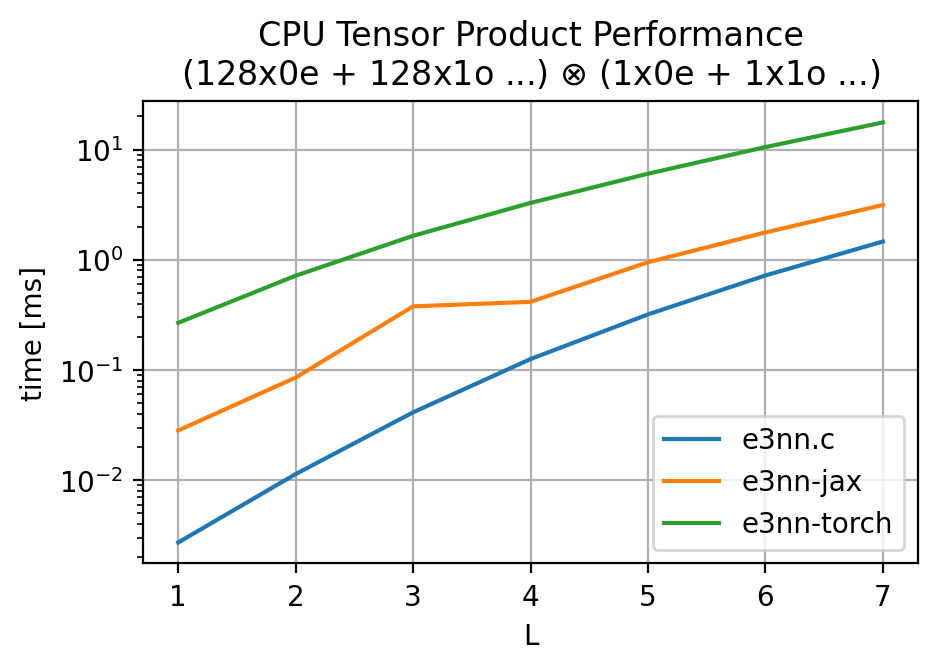
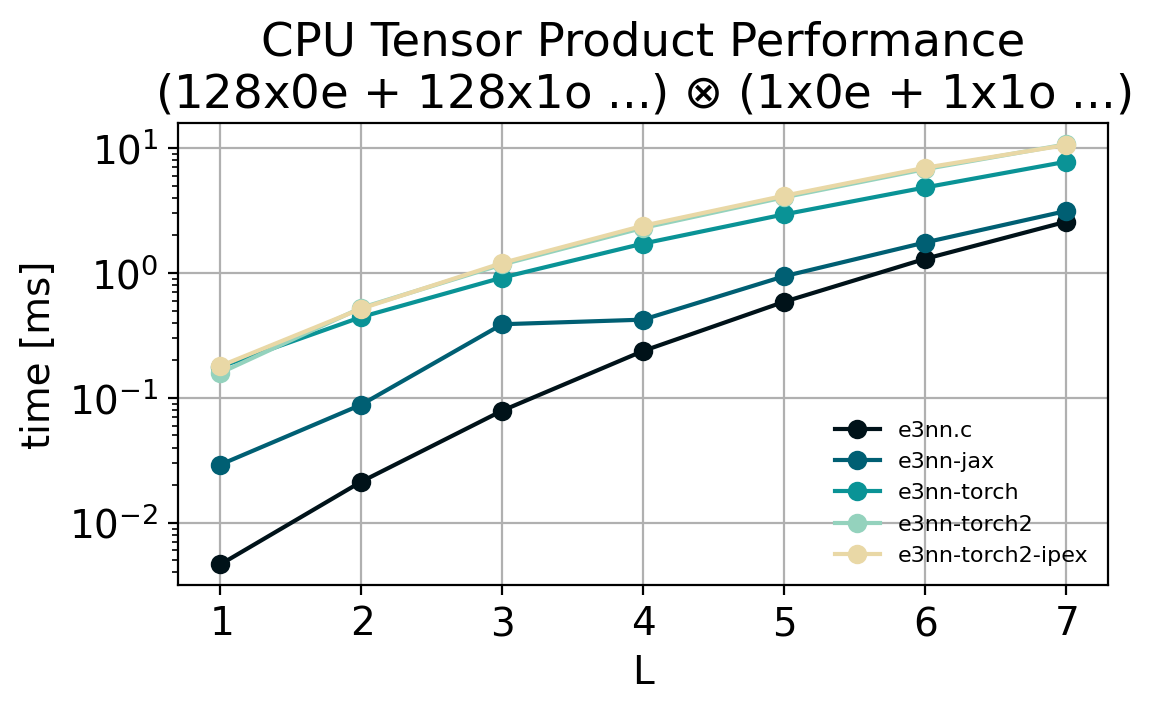
add requirements, add ipex, run benchmarkss/plot

Changed region(s): [[0.0, 0.0299, 0.9893, 0.8955], [0.5256, 0.9254, 0.5874, 0.9851]]

diff --git a/extra/benchmark_python.py b/extra/benchmark_python.py
@@ -5,6 +5,7 @@ import e3nn_jax
 
 import torch
 import e3nn as e3nn_torch
+import intel_extension_for_pytorch as ipex
 
 channels = 128
 warmup = 10
@@ -71,6 +72,30 @@ def main():
             input2 = irreps2.randn(-1) * 0
             tp = e3nn_torch.o3.experimental.FullTensorProductv2(irreps1, irreps2)
             tp = torch.compile(tp, fullgraph=True)
+
+            # perform once to jit
+            for _ in range(warmup):
+                output = tp(input1, input2)
+
+            start = time.process_time()
+            for _ in range(trials):
+                output = tp(input1, input2)
+
+            print(f"{lmax},", time.process_time() - start)
+ 
+    print("e3nn-torch2-ipex")
+    torch.set_num_threads(1) # note this actually makes it faster
+    with torch.no_grad():
+        for lmax in range(1, L):
+            irreps1 = e3nn_torch.o3.Irreps.spherical_harmonics(lmax)
+            irreps2 = (channels * irreps1).sort().irreps.simplify()
+
+            input1 = irreps1.randn(-1) * 0
+            input2 = irreps2.randn(-1) * 0
+            tp = e3nn_torch.o3.experimental.FullTensorProductv2(irreps1, irreps2)
+            tp.eval()
+            tp = ipex.optimize(tp, weights_prepack=False)
+            tp = torch.compile(tp, backend='ipex')
 
             # perform once to jit
             for _ in range(warmup):

diff --git a/extra/plot_benchmark.py b/extra/plot_benchmark.py
@@ -19,7 +19,7 @@ for line in lines:
         data[name]["lmax"].append(int(lmax)) 
         data[name]["time"].append(float(time) / trials * 1000) 
 
-fig = plt.figure(figsize=(5,3))
+fig = plt.figure(figsize=(6,3))
 for name in data.keys():
     plt.plot(data[name]["lmax"], data[name]["time"], label=name)
 plt.yscale("log")
@@ -31,8 +31,8 @@ plt.title("CPU Tensor Product Performance\n" + rf"({channels}x0e + {channels}x1o
 plt.savefig("extra/benchmark_versions.png", dpi=200, bbox_inches="tight", transparent=False)
 plt.close(fig)
 
-fig = plt.figure(figsize=(5,3))
-for name in ["e3nn.c v3", "e3nn-jax", "e3nn-torch", "e3nn-torch2"]:
+fig = plt.figure(figsize=(6,3))
+for name in ["e3nn.c v3", "e3nn-jax", "e3nn-torch", "e3nn-torch2", "e3nn-torch2-ipex"]:
     label = "e3nn.c" if "e3nn.c" in name else name
     plt.plot(data[name]["lmax"], data[name]["time"], label=label)
 plt.yscale("log")
